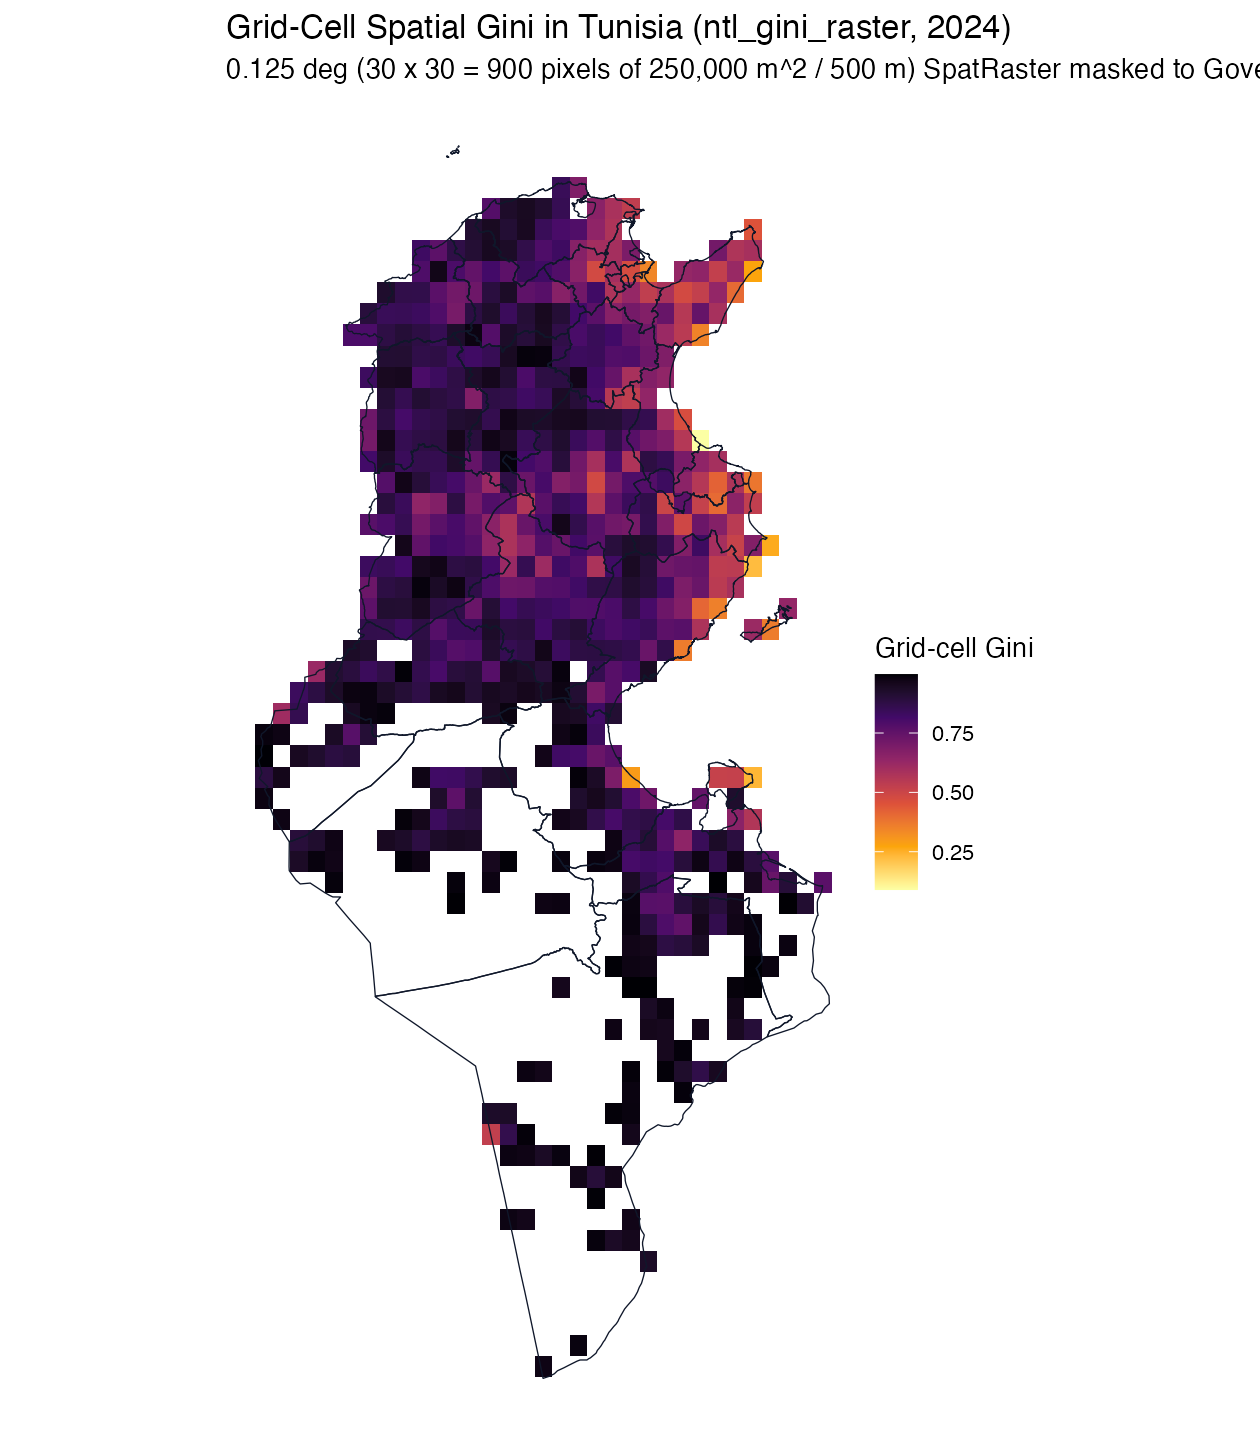
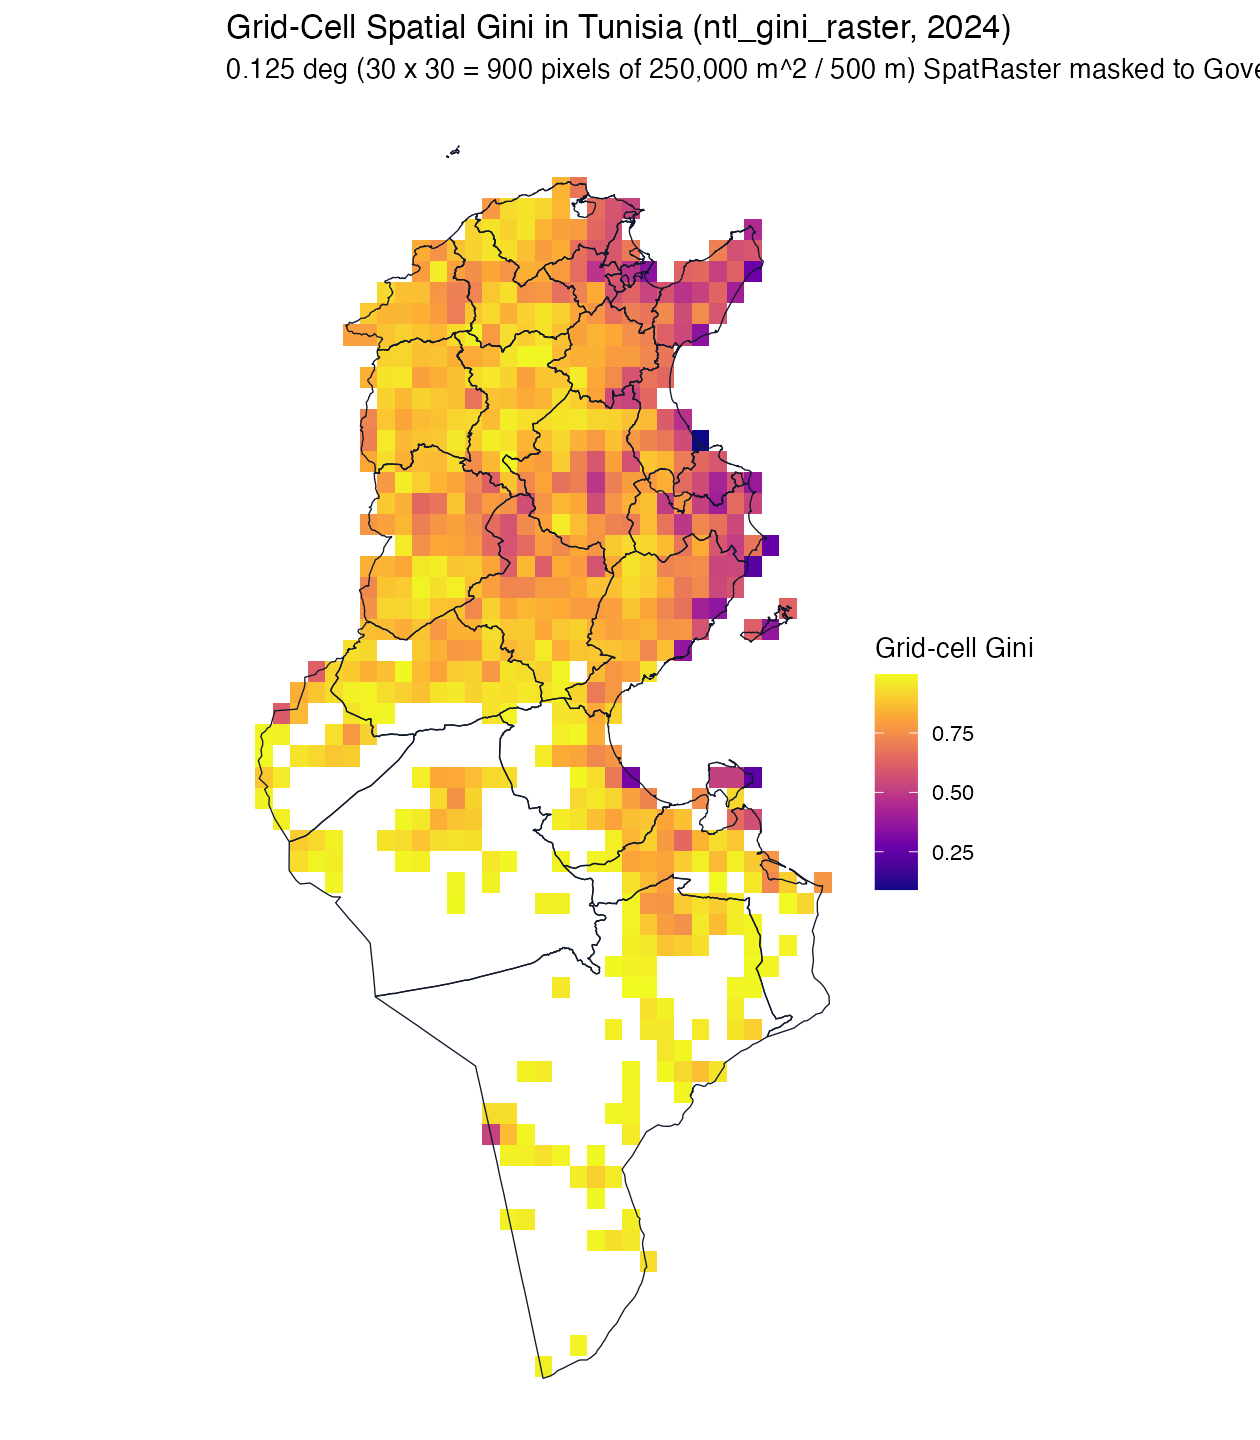
Use forward plasma palette so zero maps to dark purple instead of white

Changed region(s): [[0.1857, 0.125, 0.7429, 0.9062], [0.4024, 0.9062, 0.4643, 0.9688], [0.4024, 0.8438, 0.4333, 0.875]]

diff --git a/README.md b/README.md
@@ -164,7 +164,7 @@ names(r_df)[3] <- "gini"
 ggplot2::ggplot(r_df) +
   ggplot2::geom_tile(ggplot2::aes(x = x, y = y, fill = gini), width = 0.125, height = 0.125) +
   ggplot2::geom_sf(data = tun_gov_sf, fill = NA, color = "#0f172a", linewidth = 0.25) +
-  ggplot2::scale_fill_viridis_c(option = "inferno", direction = -1, name = "Grid-cell Gini") +
+  ggplot2::scale_fill_viridis_c(option = "plasma", name = "Grid-cell Gini") +
   ggplot2::theme_void()
 ```
 
